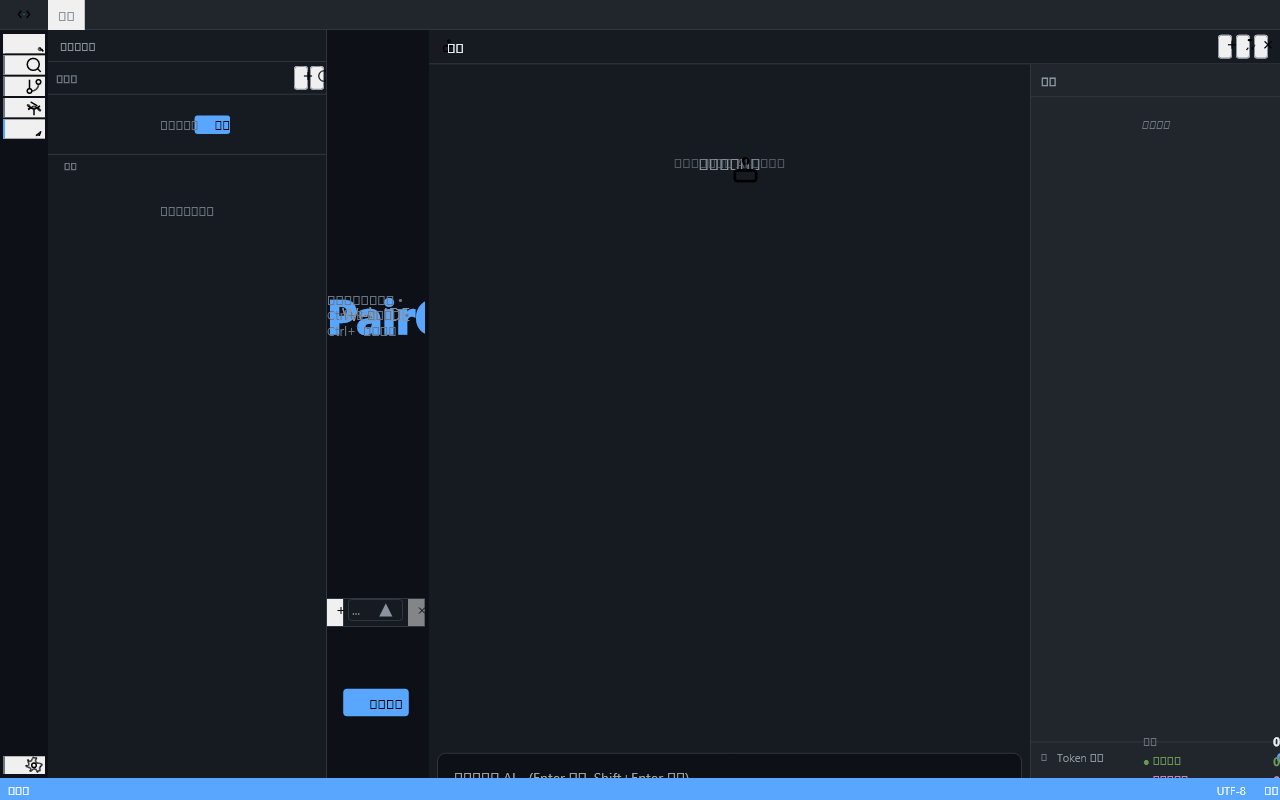
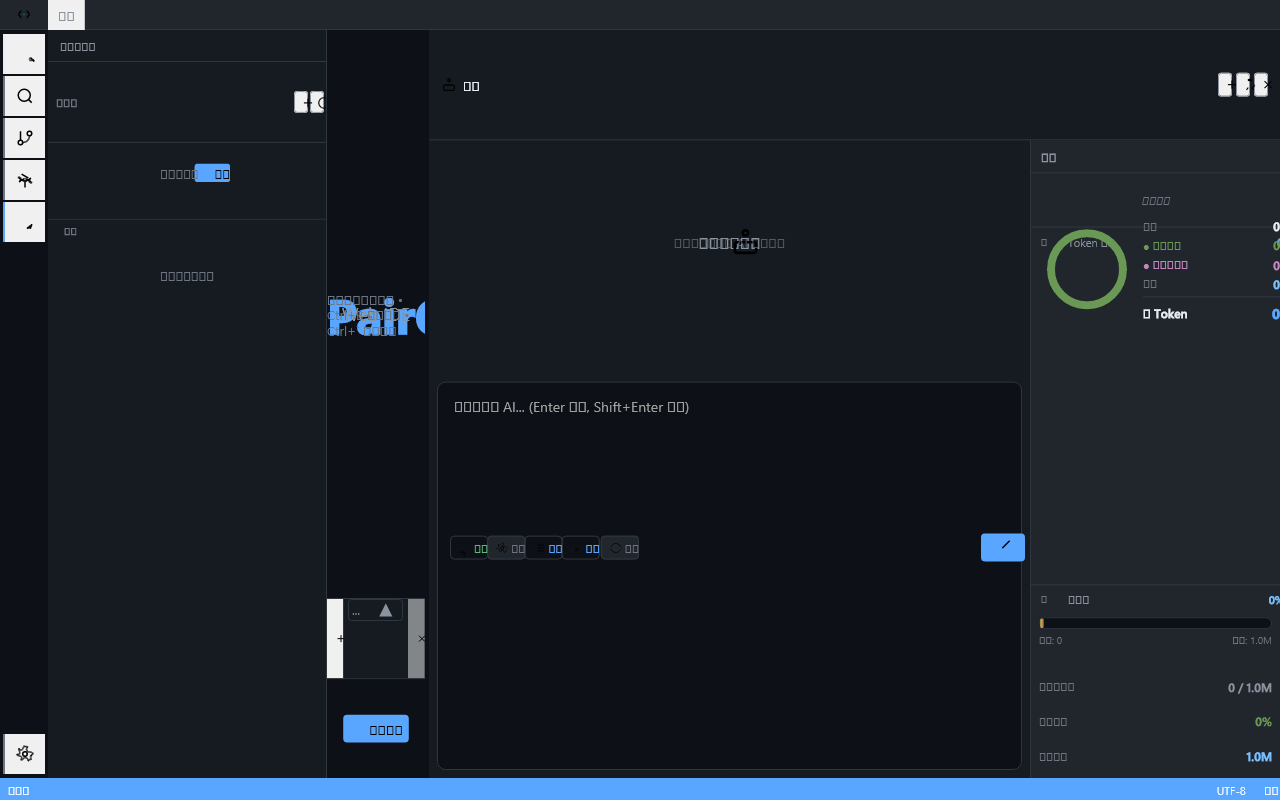
auto: fix: flex intrinsic heights + SVG presentation attribute sizing

diff --git a/dev/desktop_probe/overflow.go b/dev/desktop_probe/overflow.go
@@ -1,0 +1,102 @@
+// Command desktop_overflow finds render objects whose bottom edge exceeds the
+// viewport height (800) in the desktop Vue app.
+package main
+
+import (
+	"fmt"
+	"log"
+	"os"
+	"path/filepath"
+	"regexp"
+	"strings"
+
+	"wb-ui/dom"
+	"wb-ui/rendering"
+	"wb-ui/webkit"
+)
+
+func setupLoaders(wv *webkit.WebView, distDir string) {
+	absDist, _ := filepath.Abs(distDir)
+	if mf := wv.MainFrame(); mf != nil {
+		if fr := mf.Frame(); fr != nil {
+			fr.ScriptLoader = func(src string) (string, error) {
+				clean := strings.TrimPrefix(strings.TrimPrefix(src, "file://"), "./")
+				data, err := os.ReadFile(filepath.Join(absDist, clean))
+				return string(data), err
+			}
+			fr.StyleSheetLoader = func(href string) (string, error) {
+				clean := strings.TrimPrefix(strings.TrimPrefix(href, "file://"), "./")
+				data, err := os.ReadFile(filepath.Join(absDist, clean))
+				if err != nil {
+					return "", err
+				}
+				re := regexp.MustCompile(`\[data-v-[a-f0-9]+\]`)
+				return re.ReplaceAllString(string(data), ""), nil
+			}
+		}
+	}
+}
+
+func main() {
+	log.SetFlags(0)
+	wd, _ := os.Getwd()
+	distDir := filepath.Join(wd, "cmd", "desktop", "web-ui", "dist")
+	htmlData, _ := os.ReadFile(distDir + "/index.html")
+
+	wv := webkit.NewWebView()
+	setupLoaders(wv, distDir)
+	wv.Resize(1280, 800)
+	_ = wv.LoadHTML(string(htmlData))
+	wv.EnsureLayout()
+
+	rv := wv.RenderView()
+	state := rv.LayoutState()
+	fmt.Println("=== OBJECTS OVERFLOWING VIEWPORT (bottom > 800) ===")
+	var walk func(o rendering.RenderObject)
+	walk = func(o rendering.RenderObject) {
+		if o.Node() != nil {
+			lb := o.LayoutBox()
+			if lb != nil && state != nil {
+				g := state.GeometryForBox(lb)
+				var ov string
+				if st := lb.Style(); st != nil {
+					ov = st.OverflowX.String() + "/" + st.OverflowY.String()
+				}
+				if strings.Contains(clsOf(o), "conv-sidebar") || strings.Contains(clsOf(o), "conv-stats") || strings.Contains(clsOf(o), "conv-list") {
+					fmt.Printf("  [ov] %-24s xy=(%.0f,%.0f) wh=(%.0f,%.0f) overflow=%s\n",
+						clsOf(o)[:min(30, len(clsOf(o)))], g.Left(), g.Top(), g.BorderBoxWidth(), g.BorderBoxHeight(), ov)
+				}
+				bottom := g.Top() + g.BorderBoxHeight()
+				if bottom > 800 {
+					fmt.Printf("  %s.%s xy=(%.0f,%.0f) wh=(%.0f,%.0f) bottom=%.0f ov=%s\n",
+						tagOf(o), clsOf(o)[:min(30, len(clsOf(o)))], g.Left(), g.Top(), g.BorderBoxWidth(), g.BorderBoxHeight(), bottom, ov)
+				}
+			}
+		}
+		for c := o.FirstChild(); c != nil; c = c.NextSibling() {
+			walk(c)
+		}
+	}
+	walk(rv)
+}
+
+func min(a, b int) int {
+	if a < b {
+		return a
+	}
+	return b
+}
+
+func clsOf(o rendering.RenderObject) string {
+	if el, ok := o.Node().(*dom.Element); ok {
+		return el.GetAttribute("class")
+	}
+	return ""
+}
+
+func tagOf(o rendering.RenderObject) string {
+	if el, ok := o.Node().(*dom.Element); ok {
+		return el.LocalName()
+	}
+	return "?"
+}

diff --git a/dev/desktop_probe/svg.go b/dev/desktop_probe/svg.go
@@ -1,0 +1,85 @@
+// Command desktop_svg inspects how wb-ui sizes <svg> icons in the Vue app.
+package main
+
+import (
+	"fmt"
+	"log"
+	"os"
+	"path/filepath"
+	"regexp"
+	"strings"
+
+	"wb-ui/dom"
+	"wb-ui/rendering"
+	"wb-ui/webkit"
+)
+
+func setupLoaders(wv *webkit.WebView, distDir string) {
+	absDist, _ := filepath.Abs(distDir)
+	if mf := wv.MainFrame(); mf != nil {
+		if fr := mf.Frame(); fr != nil {
+			fr.ScriptLoader = func(src string) (string, error) {
+				clean := strings.TrimPrefix(strings.TrimPrefix(src, "file://"), "./")
+				data, err := os.ReadFile(filepath.Join(absDist, clean))
+				return string(data), err
+			}
+			fr.StyleSheetLoader = func(href string) (string, error) {
+				clean := strings.TrimPrefix(strings.TrimPrefix(href, "file://"), "./")
+				data, err := os.ReadFile(filepath.Join(absDist, clean))
+				if err != nil {
+					return "", err
+				}
+				re := regexp.MustCompile(`\[data-v-[a-f0-9]+\]`)
+				return re.ReplaceAllString(string(data), ""), nil
+			}
+		}
+	}
+}
+
+func main() {
+	log.SetFlags(0)
+	wd, _ := os.Getwd()
+	distDir := filepath.Join(wd, "cmd", "desktop", "web-ui", "dist")
+	htmlData, _ := os.ReadFile(distDir + "/index.html")
+
+	wv := webkit.NewWebView()
+	setupLoaders(wv, distDir)
+	wv.Resize(1280, 800)
+	_ = wv.LoadHTML(string(htmlData))
+	wv.EnsureLayout()
+
+	rv := wv.RenderView()
+	state := rv.LayoutState()
+	fmt.Println("=== SVG ELEMENTS (first 15) ===")
+	n := 0
+	var walk func(o rendering.RenderObject)
+	walk = func(o rendering.RenderObject) {
+		if n >= 15 {
+			return
+		}
+		if el, ok := o.Node().(*dom.Element); ok && el.LocalName() == "svg" {
+			lb := o.LayoutBox()
+			if lb != nil && state != nil {
+				g := state.GeometryForBox(lb)
+				st := lb.Style()
+				fmt.Printf("  svg.%s xy=(%.0f,%.0f) wh=(%.0f,%.0f) attr[w=%s h=%s vb=%s] css[w=%v%s] disp=%v\n",
+					clsShort(el.GetAttribute("class")),
+					g.Left(), g.Top(), g.BorderBoxWidth(), g.BorderBoxHeight(),
+					el.GetAttribute("width"), el.GetAttribute("height"), el.GetAttribute("viewBox"),
+					st.Width.Value, st.Width.Unit, st.Display)
+				n++
+			}
+		}
+		for c := o.FirstChild(); c != nil; c = c.NextSibling() {
+			walk(c)
+		}
+	}
+	walk(rv)
+}
+
+func clsShort(s string) string {
+	if len(s) > 24 {
+		return s[:24]
+	}
+	return s
+}

diff --git a/dev/desktop_probe/icons.go b/dev/desktop_probe/icons.go
@@ -1,0 +1,79 @@
+// Command desktop_icons checks whether SVG icons actually paint (nonzero
+// pixels inside the activity bar icon area) in the desktop Vue app.
+package main
+
+import (
+	"fmt"
+	"log"
+	"os"
+	"path/filepath"
+	"regexp"
+	"strings"
+
+	"wb-ui/rendering"
+	"wb-ui/webkit"
+)
+
+func setupLoaders(wv *webkit.WebView, distDir string) {
+	absDist, _ := filepath.Abs(distDir)
+	if mf := wv.MainFrame(); mf != nil {
+		if fr := mf.Frame(); fr != nil {
+			fr.ScriptLoader = func(src string) (string, error) {
+				clean := strings.TrimPrefix(strings.TrimPrefix(src, "file://"), "./")
+				data, err := os.ReadFile(filepath.Join(absDist, clean))
+				return string(data), err
+			}
+			fr.StyleSheetLoader = func(href string) (string, error) {
+				clean := strings.TrimPrefix(strings.TrimPrefix(href, "file://"), "./")
+				data, err := os.ReadFile(filepath.Join(absDist, clean))
+				if err != nil {
+					return "", err
+				}
+				re := regexp.MustCompile(`\[data-v-[a-f0-9]+\]`)
+				return re.ReplaceAllString(string(data), ""), nil
+			}
+		}
+	}
+}
+
+func main() {
+	log.SetFlags(0)
+	wd, _ := os.Getwd()
+	distDir := filepath.Join(wd, "cmd", "desktop", "web-ui", "dist")
+	htmlData, _ := os.ReadFile(distDir + "/index.html")
+
+	wv := webkit.NewWebView()
+	setupLoaders(wv, distDir)
+	wv.Resize(1280, 800)
+	_ = wv.LoadHTML(string(htmlData))
+	wv.EnsureLayout()
+	rv := wv.RenderView()
+
+	// Render to a raw pixel buffer via the render view.
+	rendering.Paint(rv, nil, rendering.Rect{}) // no-op; use WebView.Render instead
+	pngBytes, err := wv.Render()
+	if err != nil {
+		log.Fatal(err)
+	}
+	w, h := wv.Width(), wv.Height()
+	_ = h
+	px := func(x, y int) (uint8, uint8, uint8, uint8) {
+		off := (y*w + x) * 4
+		if off+3 < len(pngBytes) {
+			return pngBytes[off], pngBytes[off+1], pngBytes[off+2], pngBytes[off+3]
+		}
+		return 0, 0, 0, 0
+	}
+	// Activity bar icons: x=0..48, first icon around y=38..66 (icon 18px).
+	fmt.Println("=== ACTIVITY BAR ICON PIXELS (x=0..48, y=38..66) ===")
+	ink := 0
+	for y := 38; y <= 66; y++ {
+		for x := 8; x <= 40; x++ {
+			r, g, b, a := px(x, y)
+			if a > 0 && !(r > 200 && g > 200 && b > 200) {
+				ink++
+			}
+		}
+	}
+	fmt.Printf("icon ink pixels: %d (want > 20 for a visible 18x18 icon)\n", ink)
+}
